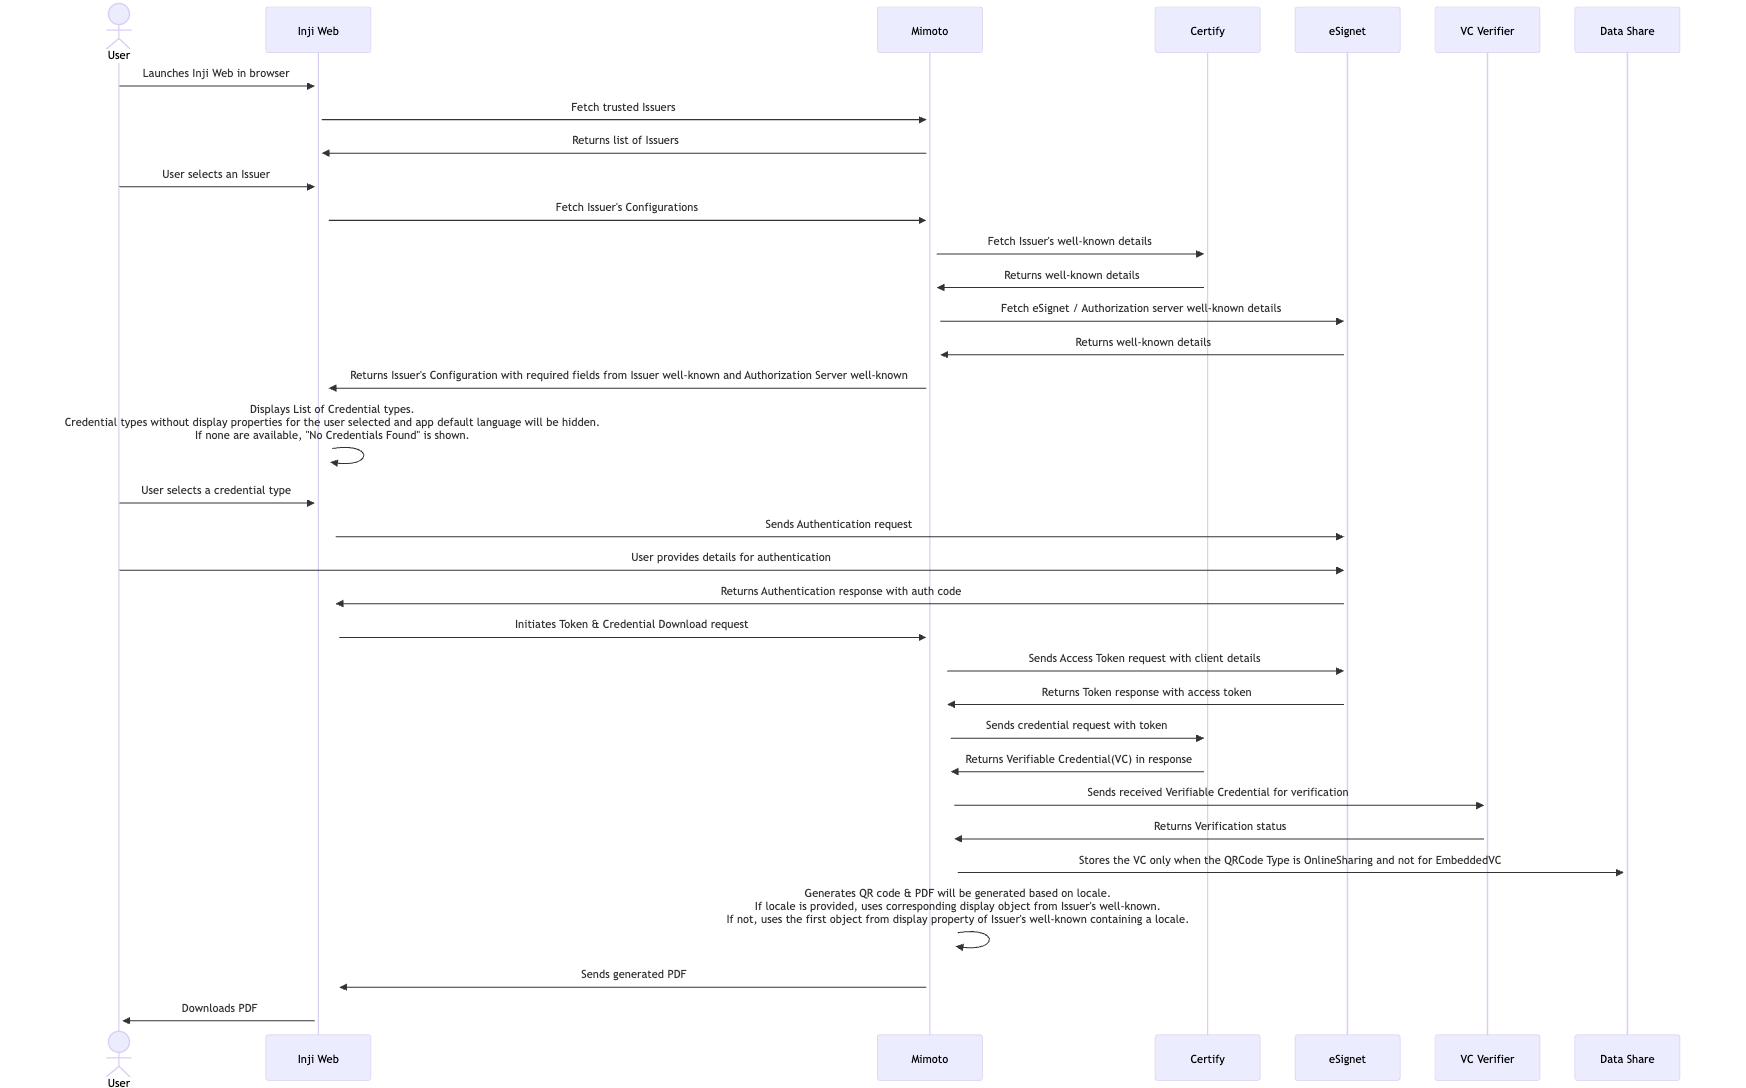
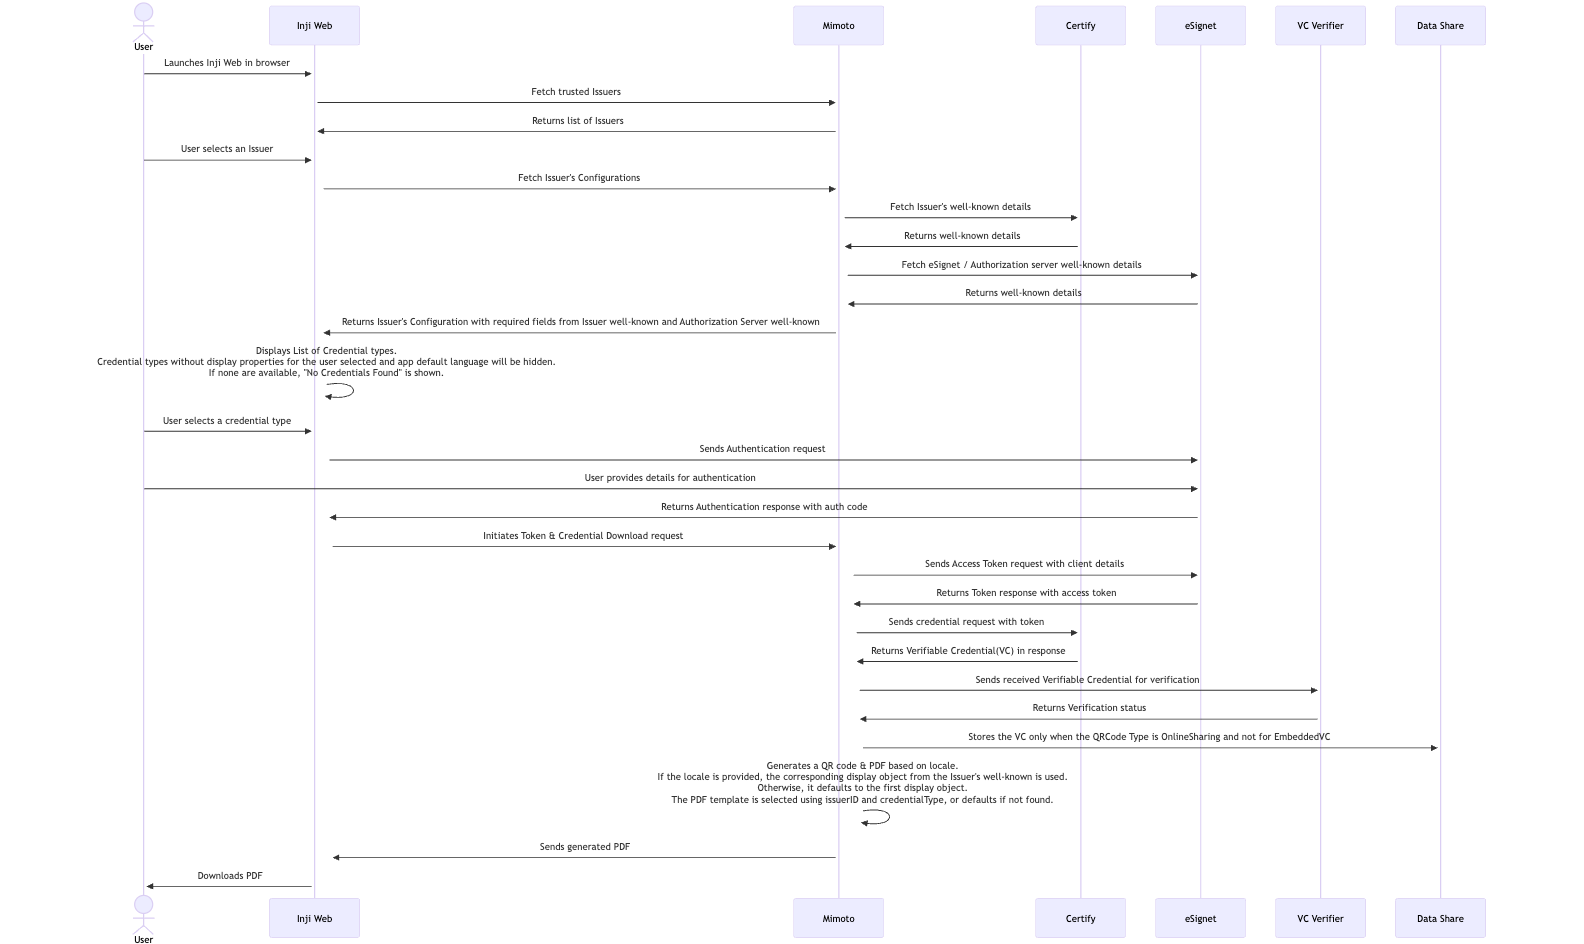
[INJIWEB-1436] update inji web sequence diagram files with details about generating the PDF template using issuerId and credentialType

diff --git a/docs/InjiWebSequence.md b/docs/InjiWebSequence.md
@@ -37,7 +37,7 @@
 
 ### **PDF Download**
 
-- Mimoto uses the download credential data on the [VC PDF template](https://github.com/mosip/mosip-config/blob/collab1/credential-template.html)
+- Mimoto generates the PDF by applying the downloaded credential data to the Credential Template. It fetches the Credential Template file using the issuerId and credentialType, with the file name being in the format "issuerId-credentialType-template.html." If this file does not exist, it falls back to the default Credential Template file (https://github.com/mosip/mosip-config/blob/collab1/credential-template.html).
 - It applies the Issuer's well-known display properties based on the received locale value to adjust the template text and background color. If a locale is provided, it uses the corresponding display object from the Issuer's well-known otherwise, it selects the first display object that includes a locale.
 - It also uses order field in wellknown to render the fields in the same order.
 
